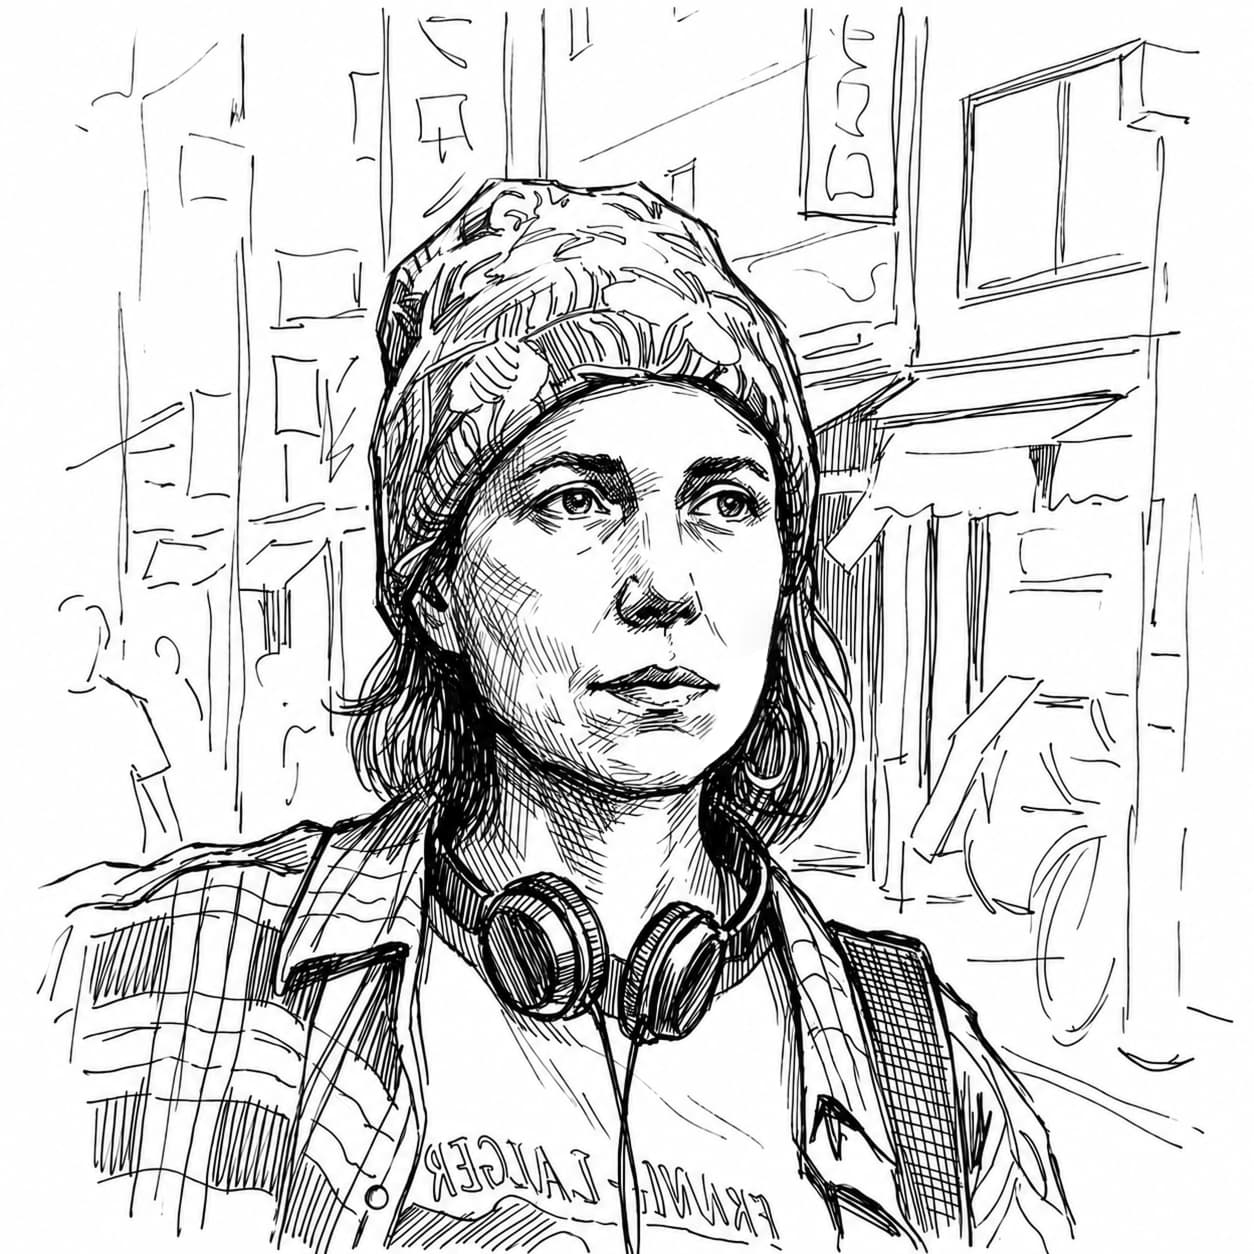
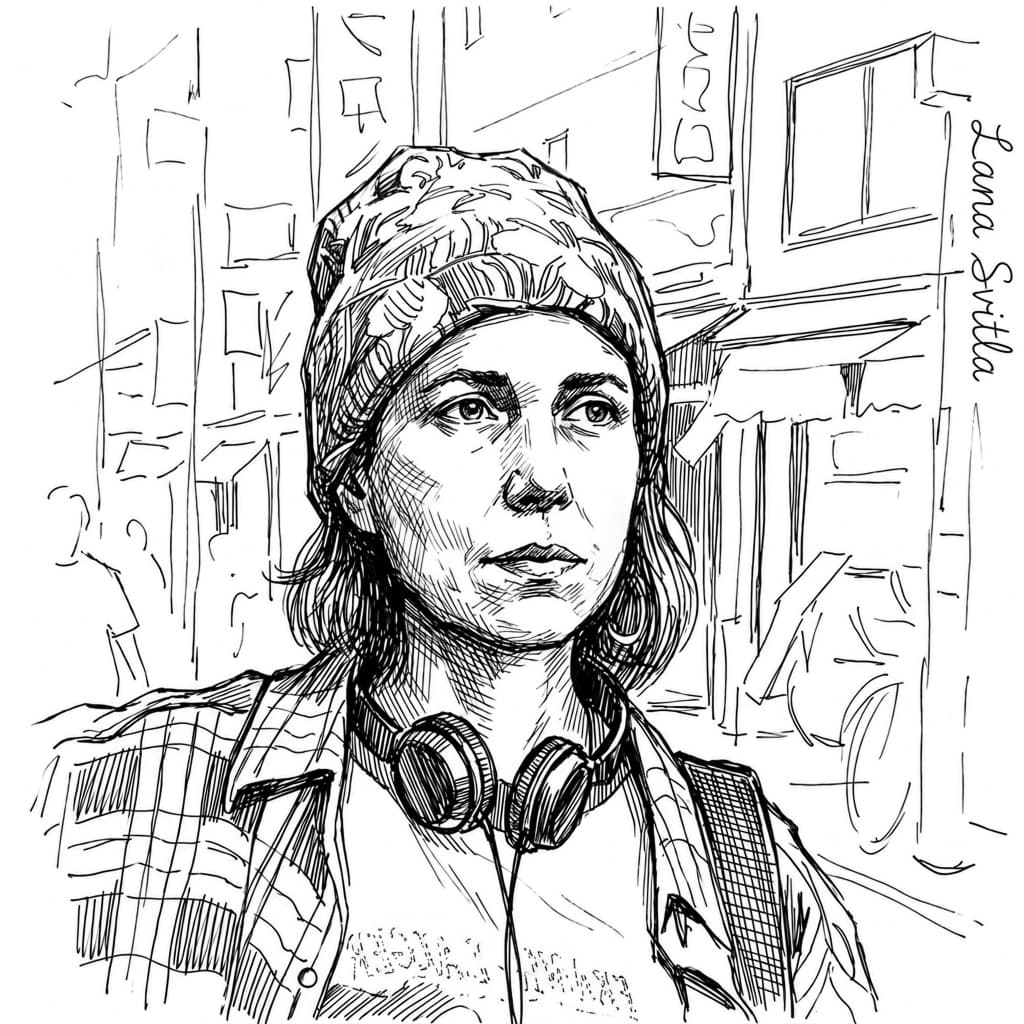
Update portfolio pages

diff --git a/ru/branding/index.html b/ru/branding/index.html
@@ -3479,6 +3479,86 @@
         padding-top: 50px;
       }
 
+      /* Hero identity: fixed to the portrait, matching the reference spacing. */
+      .hero-profile {
+        grid-column: 1 / span 2;
+        grid-row: 1;
+        align-self: start;
+        justify-self: start;
+        width: 200px;
+        position: relative;
+        z-index: 4;
+      }
+
+      .hero-profile .portrait-card {
+        grid-column: auto;
+        width: 100%;
+        max-width: none;
+        margin: 0;
+      }
+
+      .hero-identity {
+        margin-top: 25px;
+        color: var(--ink);
+        font-family: var(--sans);
+        font-size: 16px;
+        line-height: 1.2;
+        letter-spacing: 0;
+        text-align: left;
+      }
+
+      .hero-person-name {
+        margin: 0;
+        color: #9d9d9d;
+        font: inherit;
+        font-weight: 400;
+        line-height: inherit;
+        letter-spacing: 0;
+      }
+
+      .hero-identity .role {
+        position: static !important;
+        inset: auto !important;
+        grid-column: auto !important;
+        grid-row: auto !important;
+        max-width: none;
+        margin: 2px 0 0;
+        color: var(--ink);
+        font-family: var(--sans);
+        font-size: inherit;
+        font-weight: 500;
+        line-height: inherit;
+        letter-spacing: 0;
+        text-align: left;
+        text-transform: none;
+      }
+
+      @media (max-width: 1180px) {
+        .hero-profile {
+          grid-column: 1 / span 4;
+          grid-row: 1;
+          width: clamp(190px, 24vw, 250px);
+        }
+      }
+
+      @media (max-width: 700px) {
+        .hero-profile {
+          width: min(72vw, 310px);
+          margin-top: 18px;
+        }
+
+        .hero-identity {
+          margin-top: 22px;
+        }
+      }
+
+      @media (max-width: 420px) {
+        .hero-profile {
+          width: min(76vw, 300px);
+          max-width: 300px;
+        }
+      }
+
       /* Audience tabs draft: first state only */
       .audience-composition {
         z-index: 3;
@@ -3486,21 +3566,26 @@
 
       .audience-tabs-draft {
         display: grid;
-        grid-template-rows: repeat(2, minmax(0, 1fr));
-        min-height: 82px;
-        background: #f9f9fa;
+        grid-template-rows: repeat(2, auto);
+        align-content: start;
+        gap: 0;
+        width: min(100%, 244px);
+        min-height: 58px;
+        background: transparent;
       }
 
       .audience-tab {
         appearance: none;
         border: 0;
+        border-bottom: 1px solid transparent;
         background: transparent;
-        padding: 0 16px;
-        color: var(--ink);
+        min-height: 29px;
+        padding: 0 0 7px;
+        color: #c9c9c9;
         font: inherit;
         font-size: 16px;
-        font-weight: 400;
-        line-height: 140%;
+        font-weight: 500;
+        line-height: 1.2;
         letter-spacing: 0;
         text-align: left;
       }
@@ -3512,10 +3597,7 @@
       }
 
       .audience-tabs-divider {
-        display: block;
-        width: 1px;
-        height: 82px;
-        background: #434343;
+        display: none;
       }
 
       .audience-composition .hero-copy {
@@ -3537,10 +3619,10 @@
           left: var(--pad-x);
           top: 37.2svh;
           display: grid;
-          grid-template-columns: 220px 1px minmax(0, 560px);
-          gap: 18px;
+          grid-template-columns: 244px minmax(0, 560px);
+          column-gap: 58px;
           align-items: start;
-          width: min(820px, 58vw);
+          width: min(862px, 62vw);
         }
       }
 
@@ -3550,8 +3632,8 @@
           grid-row: 2;
           align-self: end;
           display: grid;
-          grid-template-columns: minmax(150px, 190px) 1px minmax(0, 1fr);
-          gap: 14px;
+          grid-template-columns: minmax(180px, 244px) minmax(0, 1fr);
+          column-gap: 32px;
           width: 100%;
           margin-bottom: 64px;
         }
@@ -3571,17 +3653,15 @@
 
         .audience-tabs-draft {
           grid-template-columns: 1fr 1fr;
-          grid-template-rows: 44px;
-          min-height: 44px;
+          grid-template-rows: auto;
+          width: 100%;
+          min-height: 30px;
         }
 
         .audience-tab {
-          padding: 0 12px;
-          text-align: center;
-        }
-
-        .audience-tabs-divider {
-          display: none;
+          min-height: 30px;
+          padding: 0 0 7px;
+          text-align: left;
         }
       }
 
@@ -3593,22 +3673,12 @@
     }
 
     .audience-tabs-draft::before {
-      content: "";
-      position: absolute;
-      z-index: 0;
-      top: 0;
-      left: 0;
-      width: 100%;
-      height: 50%;
-      box-sizing: border-box;
-      background: #f0f0f2;
-      border: 1px solid #d2d2d4;
-      transform: translateY(0);
-      transition: transform 0.45s cubic-bezier(0.22, 0.61, 0.36, 1);
+      content: none;
+      display: none;
     }
 
     .audience-tabs-draft.is-experts::before {
-      transform: translateY(100%);
+      transform: none;
     }
 
     .audience-tab {
@@ -3619,12 +3689,14 @@
     }
 
     .audience-tab[aria-selected="false"] {
-      color: #aaa;
+      color: #c9c9c9;
+      border-bottom-color: transparent;
     }
 
     .audience-tab[aria-selected="true"] {
       color: #434343;
       font-weight: 500;
+      border-bottom-color: #434343;
     }
 
     .audience-reveal {
@@ -3652,14 +3724,9 @@
     }
 
     @media (max-width: 700px) {
-      .audience-tabs-draft::before {
-        width: 50%;
-        height: 100%;
-        transform: translateX(0);
-      }
-
+      .audience-tabs-draft::before,
       .audience-tabs-draft.is-experts::before {
-        transform: translateX(100%);
+        transform: none;
       }
     }
 
@@ -3673,7 +3740,8 @@
       }
     }
   </style>
-  </head>
+  
+</head>
   <body>
     <div class="cursor-dot" aria-hidden="true"></div>
 
@@ -3688,12 +3756,14 @@
 
     <main>
       <section class="hero" id="top" aria-label="Intro">
-        <div class="portrait-card">
-          <img src="../../assets/images/LS_sketch.jpg" alt="Lana Svitla" />
-        </div>
-
-        <div class="role role-brand">
-          Brand &amp; Graphic Designer
+        <div class="hero-profile">
+          <div class="portrait-card">
+            <img src="../../assets/images/LS_sketch.jpg" alt="Lana Svitla" />
+          </div>
+          <div class="hero-identity" aria-label="Lana Svitla, Brand & Graphic Designer">
+            <div class="hero-person-name">Lana Svitla</div>
+            <div class="role role-brand">Brand &amp; Graphic Designer</div>
+          </div>
         </div>
 
         <div class="audience-composition audience-companies" aria-label="Аудитория: компаниям">
@@ -4349,5 +4419,40 @@
       }, 5500);
     })();
   </script>
+<script id="hero-image-source-stability-script">
+(() => {
+  const assetUrl = (path) => new URL(path, document.baseURI).href;
+
+  const setStableSource = (element, path) => {
+    if (!element) return;
+    const url = assetUrl(path);
+    if (element.tagName === "OBJECT") {
+      element.data = url;
+    } else {
+      element.src = url;
+    }
+  };
+
+  const imageLike = [...document.querySelectorAll("img, object")];
+  const portrait = imageLike.find((element) => {
+    const source = element.getAttribute("src") || element.getAttribute("data") || "";
+    const alt = element.getAttribute("alt") || "";
+    return /LS_sketch/i.test(source) || /Lana Svitla/i.test(alt);
+  });
+  const shapeOne = imageLike.find((element) => {
+    const source = element.getAttribute("src") || element.getAttribute("data") || "";
+    return /(?:^|\/)11\.svg(?:$|\?)/i.test(source);
+  });
+  const shapeTwo = imageLike.find((element) => {
+    const source = element.getAttribute("src") || element.getAttribute("data") || "";
+    return /(?:^|\/)22\.svg(?:$|\?)/i.test(source);
+  });
+
+  setStableSource(portrait, "../../assets/images/LS_sketch.jpg");
+  setStableSource(shapeOne, "../../assets/icons/11.svg");
+  setStableSource(shapeTwo, "../../assets/icons/22.svg");
+})();
+</script>
 </body>
+
 </html>
